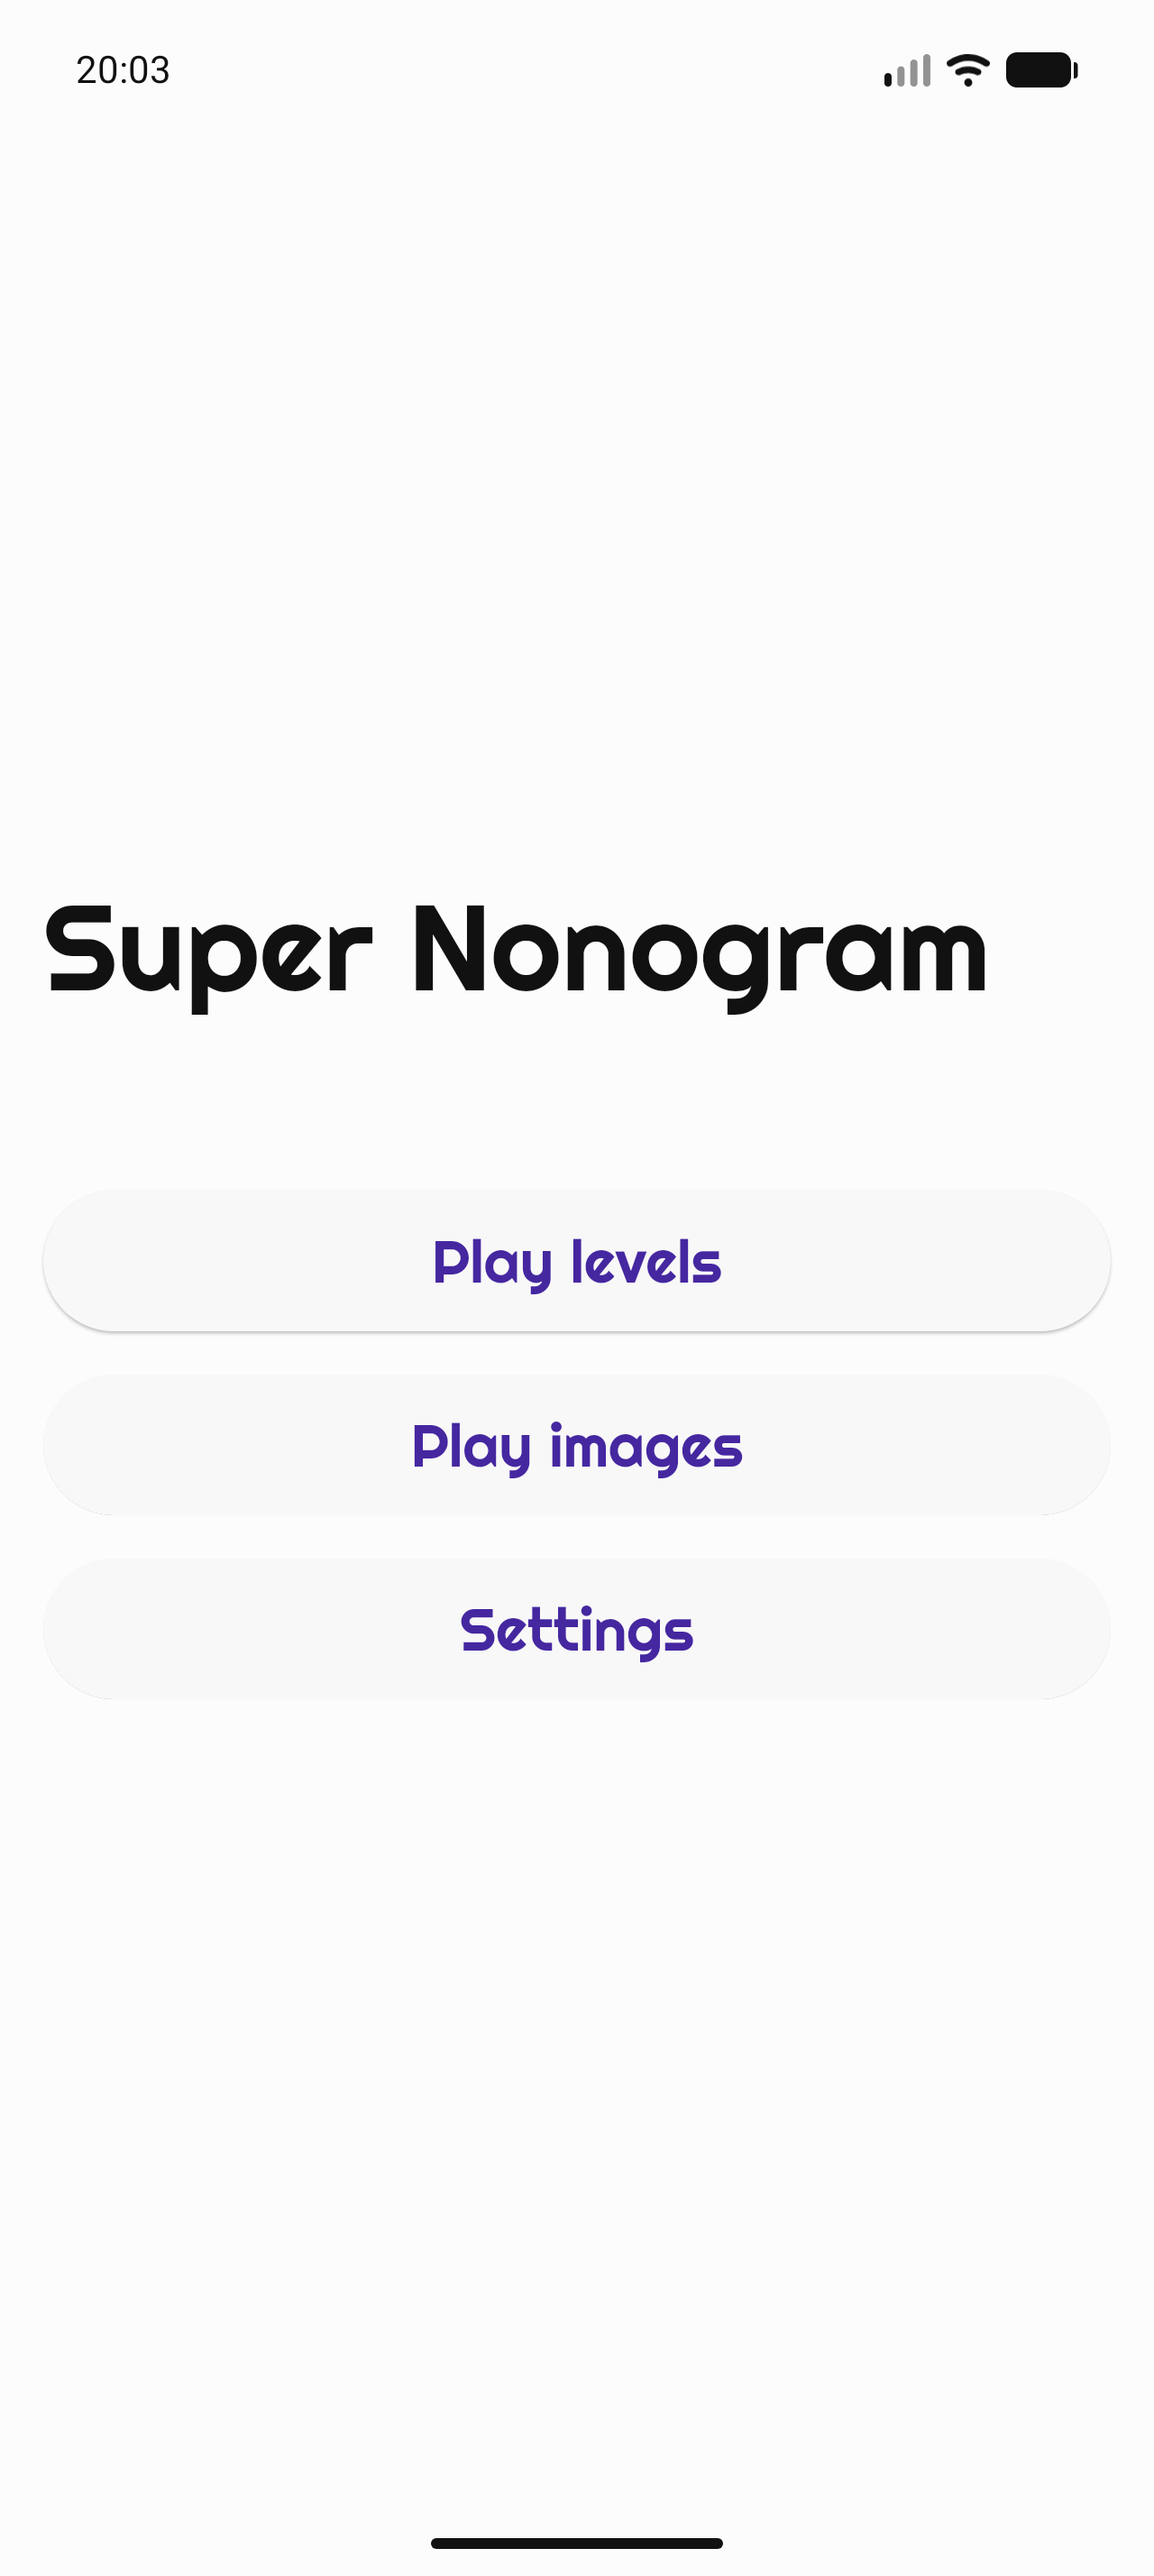
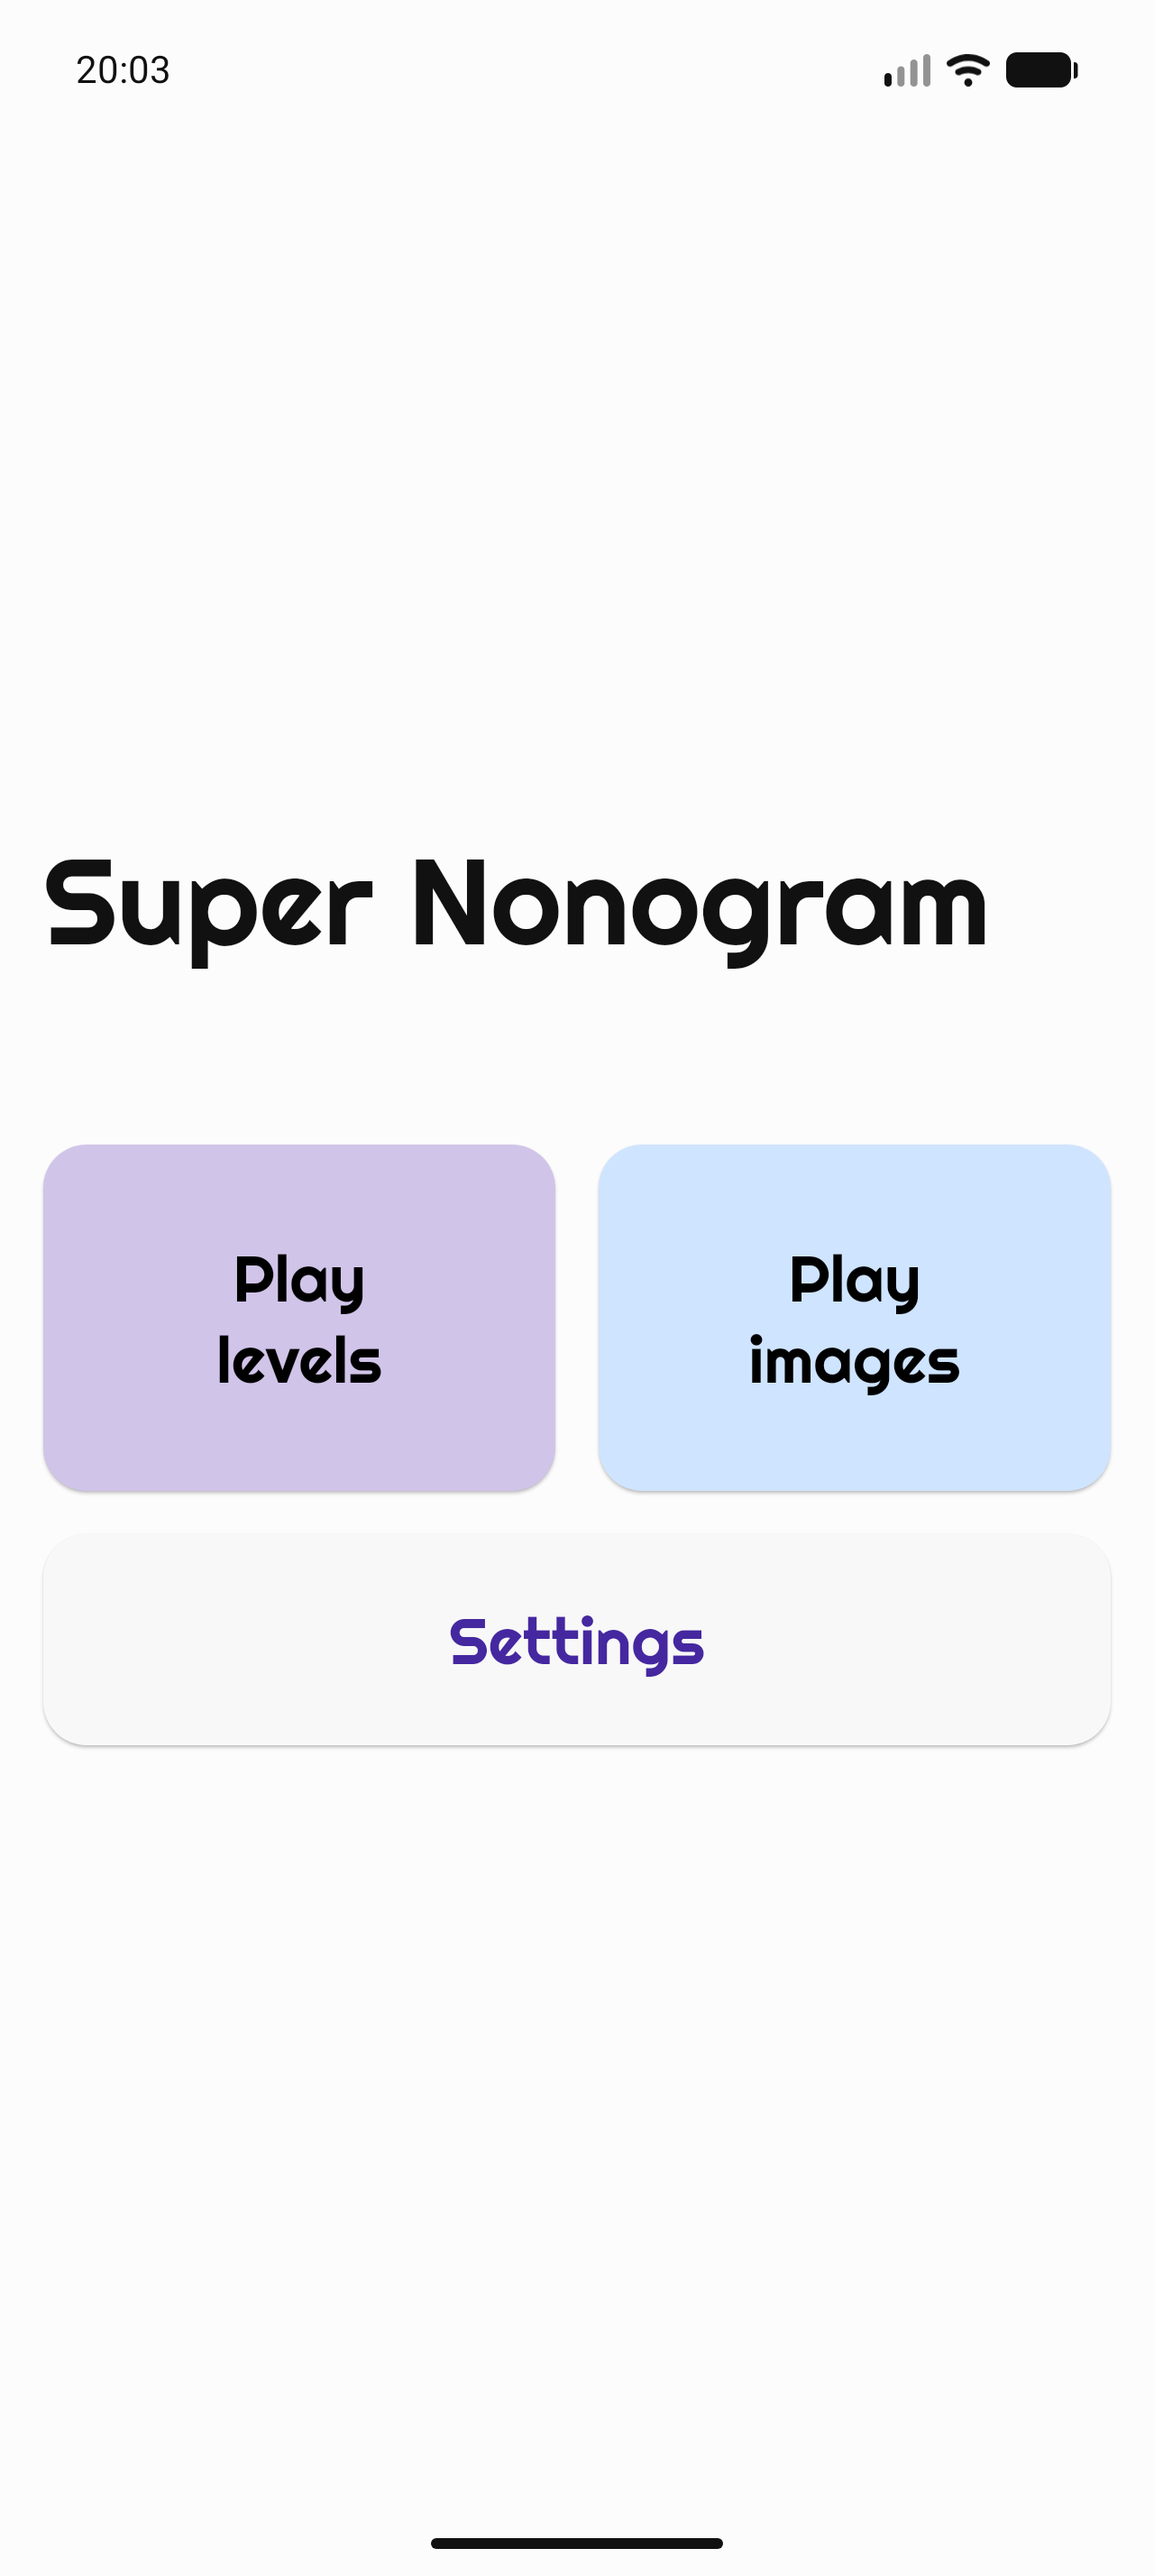
feat: redesign title page

Changed region(s): [[0.0312, 0.4363, 0.9688, 0.5921], [0.0312, 0.3116, 0.875, 0.4051], [0.375, 0.6232, 0.625, 0.6544]]

diff --git a/lib/pages/title_page.dart b/lib/pages/title_page.dart
@@ -1,14 +1,11 @@
 import 'dart:math';
 
-import 'package:animations/animations.dart';
 import 'package:flutter/material.dart';
 import 'package:games_services/games_services.dart';
 import 'package:go_router/go_router.dart';
 import 'package:super_nonogram/data/stows.dart';
 import 'package:super_nonogram/games_services/games_services_helper.dart';
 import 'package:super_nonogram/i18n/strings.g.dart';
-import 'package:super_nonogram/pages/search_page.dart';
-import 'package:super_nonogram/pages/settings_page.dart';
 
 class TitlePage extends StatelessWidget {
   const TitlePage({super.key});
@@ -19,18 +16,20 @@ class TitlePage extends StatelessWidget {
     final textTheme = theme.textTheme;
     final screenSize = MediaQuery.sizeOf(context);
 
-    final double buttonFontSize = switch (screenSize.width) {
-      < 400 => 16,
-      < 600 => 24,
-      _ => 32,
-    };
-
     final buttonShape = RoundedRectangleBorder(
-      borderRadius: BorderRadius.circular(buttonFontSize * 2),
+      borderRadius: BorderRadius.circular(16),
     );
     final elevatedButtonStyle = ElevatedButtonTheme.of(context).style!.copyWith(
       shape: WidgetStatePropertyAll(buttonShape),
-      textStyle: WidgetStatePropertyAll(textTheme.titleLarge!),
+      textStyle: WidgetStatePropertyAll(
+        textTheme.titleLarge!.copyWith(fontSize: 24),
+      ),
+      padding: WidgetStatePropertyAll(
+        const EdgeInsets.symmetric(vertical: 24, horizontal: 32),
+      ),
+    );
+    final playButtonStyle = elevatedButtonStyle.copyWith(
+      minimumSize: WidgetStatePropertyAll(Size(double.infinity, 128)),
     );
 
     return Scaffold(
@@ -44,75 +43,60 @@ class TitlePage extends StatelessWidget {
             mainAxisSize: MainAxisSize.min,
             mainAxisAlignment: MainAxisAlignment.center,
             crossAxisAlignment: CrossAxisAlignment.stretch,
+            spacing: 16,
             children: [
               Text(t.title.appName, style: textTheme.displayMedium),
-              const SizedBox(height: 64),
+              const SizedBox(height: 32),
+              Row(
+                spacing: 16,
+                children: [
+                  Expanded(
+                    child: ElevatedButton(
+                      style: playButtonStyle.copyWith(
+                        backgroundColor: WidgetStatePropertyAll(
+                          theme.colorScheme.primaryContainer,
+                        ),
+                        foregroundColor: WidgetStatePropertyAll(
+                          theme.colorScheme.onPrimaryContainer,
+                        ),
+                      ),
+                      onPressed: () {
+                        context.push('/play?level=${stows.currentLevel.value}');
+                      },
+                      child: Text(t.title.playLevels, textAlign: .center),
+                    ),
+                  ),
+                  Expanded(
+                    child: ElevatedButton(
+                      style: playButtonStyle.copyWith(
+                        backgroundColor: WidgetStatePropertyAll(
+                          theme.colorScheme.secondaryContainer,
+                        ),
+                        foregroundColor: WidgetStatePropertyAll(
+                          theme.colorScheme.onSecondaryContainer,
+                        ),
+                      ),
+                      onPressed: () {
+                        context.push('/search');
+                      },
+                      child: Text(t.title.playImages, textAlign: .center),
+                    ),
+                  ),
+                ],
+              ),
+              if (isGamesServicesSupported)
+                ElevatedButton(
+                  style: elevatedButtonStyle,
+                  onPressed: () =>
+                      runAfterGamesSignIn(GamesServices.showAchievements),
+                  child: Text(t.title.achievements),
+                ),
               ElevatedButton(
                 style: elevatedButtonStyle,
                 onPressed: () {
-                  context.push('/play?level=${stows.currentLevel.value}');
+                  context.push('/settings');
                 },
-                child: Padding(
-                  padding: EdgeInsets.all(buttonFontSize / 2),
-                  child: Text(t.title.playLevels),
-                ),
-              ),
-              const SizedBox(height: 16),
-              OpenContainer(
-                tappable: false,
-                closedShape: buttonShape,
-                closedColor: Colors.transparent,
-                closedElevation: 0,
-                openColor: Colors.transparent,
-                openElevation: 0,
-                closedBuilder: (context, action) {
-                  return ElevatedButton(
-                    style: elevatedButtonStyle,
-                    onPressed: action,
-                    child: Padding(
-                      padding: EdgeInsets.all(buttonFontSize / 2),
-                      child: Text(t.title.playImages),
-                    ),
-                  );
-                },
-                openBuilder: (context, action) {
-                  return const SearchPage();
-                },
-              ),
-              if (isGamesServicesSupported) ...[
-                const SizedBox(height: 16),
-                ElevatedButton(
-                  style: elevatedButtonStyle,
-                  onPressed: () => runAfterGamesSignIn(
-                    () => GamesServices.showAchievements(),
-                  ),
-                  child: Padding(
-                    padding: EdgeInsets.all(buttonFontSize / 2),
-                    child: Text(t.title.achievements),
-                  ),
-                ),
-              ],
-              const SizedBox(height: 16),
-              OpenContainer(
-                tappable: false,
-                closedShape: buttonShape,
-                closedColor: Colors.transparent,
-                closedElevation: 0,
-                openColor: Colors.transparent,
-                openElevation: 0,
-                closedBuilder: (context, action) {
-                  return ElevatedButton(
-                    style: elevatedButtonStyle,
-                    onPressed: action,
-                    child: Padding(
-                      padding: EdgeInsets.all(buttonFontSize / 2),
-                      child: Text(t.settings.settings),
-                    ),
-                  );
-                },
-                openBuilder: (context, action) {
-                  return const SettingsPage();
-                },
+                child: Text(t.settings.settings),
               ),
             ],
           ),

diff --git a/lib/i18n/strings_en.g.dart b/lib/i18n/strings_en.g.dart
@@ -53,10 +53,10 @@ class TranslationsTitleEn {
 	String get appName => 'Super Nonogram';
 
 	/// en: 'Play levels'
-	String get playLevels => 'Play levels';
+	String get playLevels => 'Play\nlevels';
 
 	/// en: 'Play images'
-	String get playImages => 'Play images';
+	String get playImages => 'Play\nimages';
 
 	/// en: 'Achievements'
 	String get achievements => 'Achievements';
